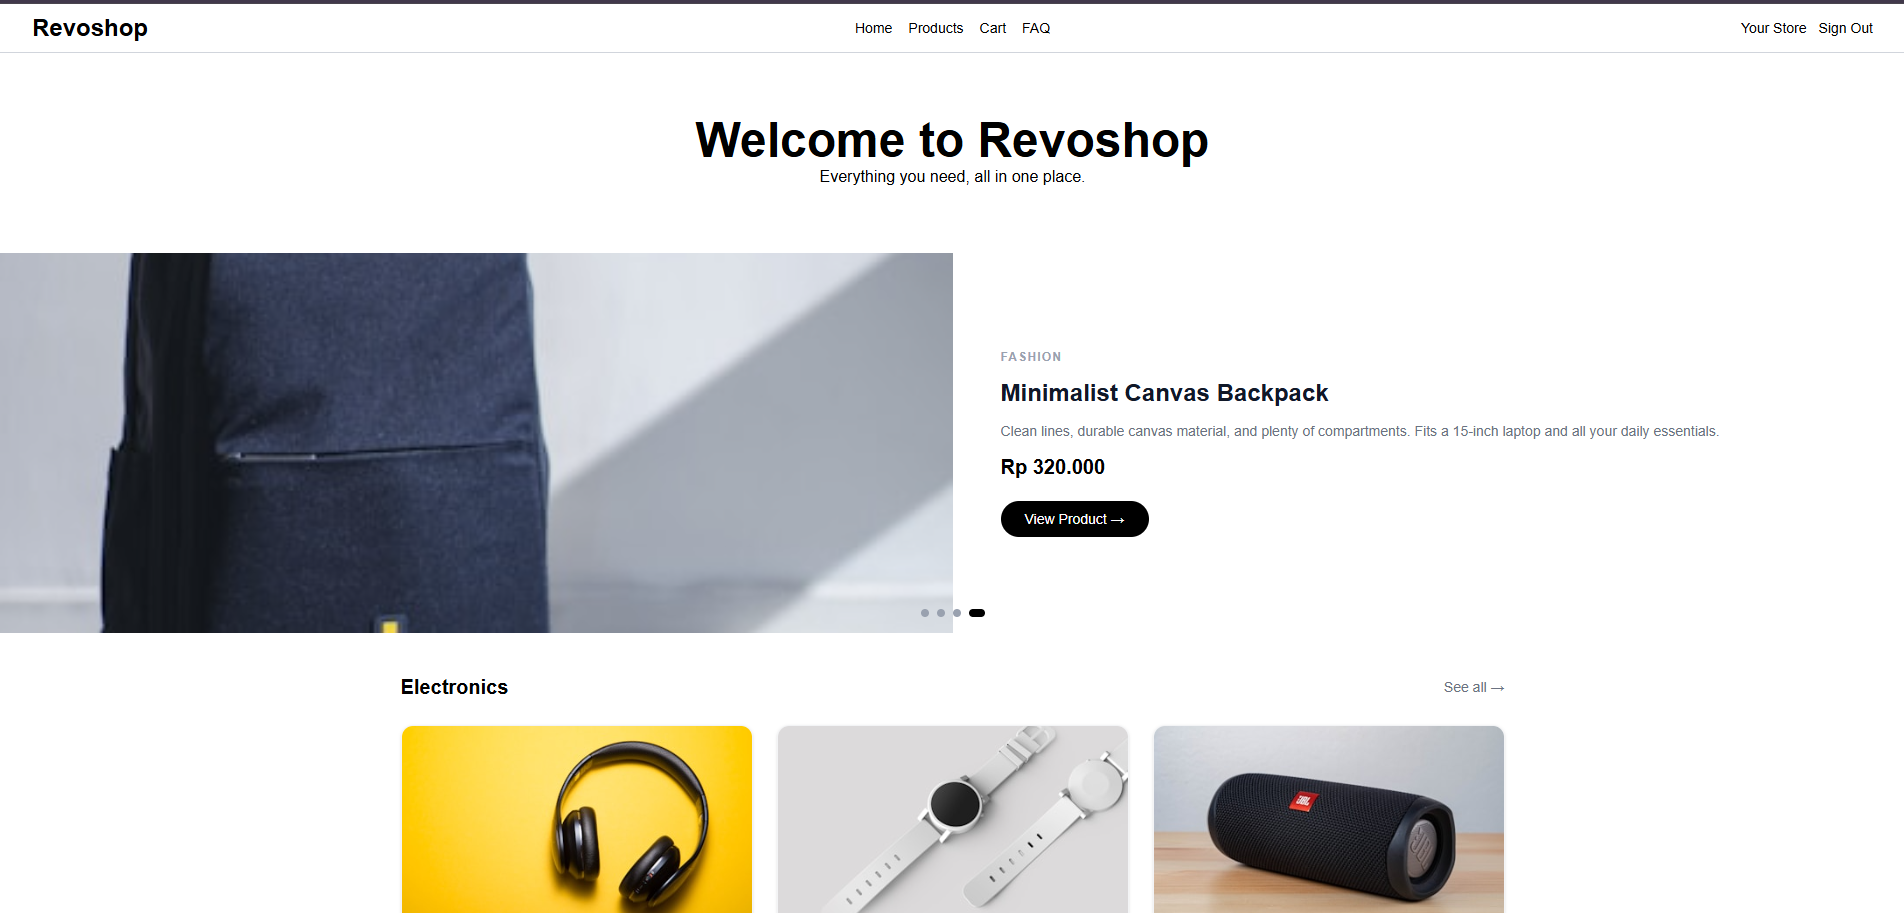
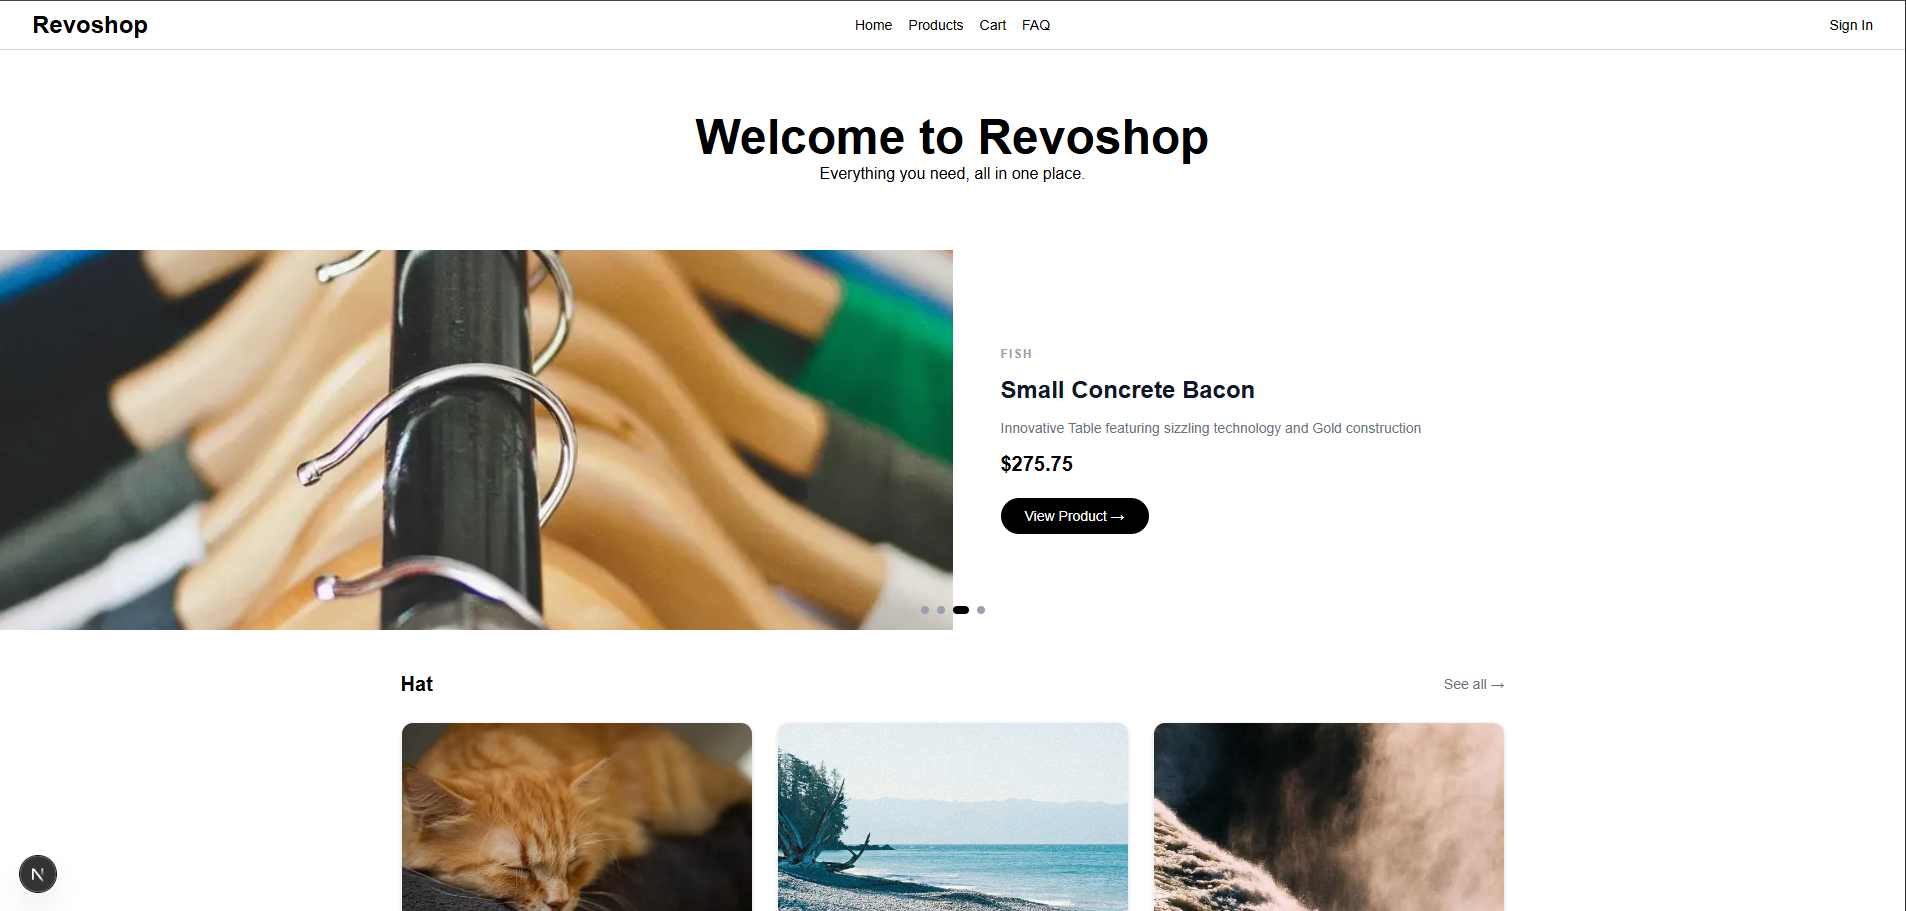
fix: getCartTotal in cart pages, replacing navigation in layout instead of inputting manually, updated README

diff --git a/src/app/products/[id]/page.tsx b/src/app/products/[id]/page.tsx
@@ -2,7 +2,6 @@
 
 import { use, useEffect, useState } from "react";
 import { useRouter } from "next/navigation";
-import { Navigation } from "@/components/Navigation";
 import { Footer } from "@/components/Footer";
 import { fetchProductById, formatPrice, Product } from "@/lib/data";
 import { useCartStore } from "@/store/CartStore";
@@ -53,8 +52,7 @@ export default function ProductDetailPage({ params }: { params: Promise<{id: str
     if (loading) {
         return (
             <>
-                <Navigation />
-                <main className="flex items-center justify-center min-h-screen">
+                <main className="flex items-center justify-center min-h-screen bg-white text-gray-500">
                     <p className="text-gray-400 animate-pulse">Loading...</p>
                 </main>
             </>
@@ -64,9 +62,8 @@ export default function ProductDetailPage({ params }: { params: Promise<{id: str
     if (!product) {
         return (
             <>
-                <Navigation />
-                <main className="flex flex-col items-center justify-center min-h-screen">
-                    <p className="text-gray-500">
+                <main className="flex flex-col items-center justify-center min-h-screen bg-white text-gray-500">
+                    <p className="text-gray-400">
                         {error}
                     </p>
                 </main>
@@ -85,7 +82,6 @@ export default function ProductDetailPage({ params }: { params: Promise<{id: str
 
     return (
         <>
-        <Navigation />
             <main className="bg-white text-black max-w-5xl mx-auto w-full px-6 py-12 min-h-screen min-w-screen">
                 <button
                 onClick={() => router.back()}

diff --git a/src/app/cart/page.tsx b/src/app/cart/page.tsx
@@ -1,8 +1,6 @@
 "use client";
 
 import { useState, useEffect } from "react";
-import { Navigation } from "@/components/Navigation";
-/* import { getCart, removeFromCart, clearCart, cartItem } from "@/lib/cartStore"; */
 import { formatPrice } from "@/lib/data";
 import Link from "next/link";
 import Image from "next/image";
@@ -10,7 +8,7 @@ import { useCartStore } from "@/store/CartStore";
 
 export default function CartPage() {
     const [showThanks, setShowThanks] = useState(false);
-    const { items, removeFromCart, clearCart, updateQuantity } = useCartStore();
+    const { items, removeFromCart, clearCart, getCartTotal, updateQuantity } = useCartStore();
 
     const handleRemove = (id: number) => {
         removeFromCart(id);
@@ -22,11 +20,8 @@ export default function CartPage() {
         setShowThanks(true);
     };
 
-    const total = items.reduce((sum, item) => sum + item.price * item.quantity, 0);
-
     return (
     <>
-        <Navigation />
         <main className="max-w-3xl mx-auto w-full px-6 py-12 min-h-screen bg-white text-black min-w-screen">
             <h1 className="text-2xl font-bold mb-8">Your Cart</h1>
 
@@ -75,7 +70,7 @@ export default function CartPage() {
                 <div className="flex items-center justify-between border-t border-gray-200 pt-6">
                 <div>
                     <p className="text-sm text-gray-400">Total</p>
-                    <p className="text-2xl font-bold">{formatPrice(total)}</p>
+                    <p className="text-2xl font-bold">{formatPrice(getCartTotal())}</p>
                 </div>
                 <button
                     onClick={handleCheckout}

diff --git a/src/app/dashboard/page.tsx b/src/app/dashboard/page.tsx
@@ -3,7 +3,6 @@
 import { useState, useEffect } from "react";
 import Link from "next/link";
 import { Footer } from "@/components/Footer";
-import { Navigation } from "@/components/Navigation";
 import {
     fetchProducts, fetchCategories, formatPrice, Product
 } from "@/lib/data";
@@ -56,7 +55,6 @@ export default function UserDashboard() {
     if(isLoading || isProductLoading) {
         return (
             <>
-                <Navigation />
                 <main className="container text-center py-24 bg-white text-black min-h-screen min-w-screen">
                     <p className="text-sm text-slate-500 animate-pulse">Setting up the environment, please wait a moment...</p>
                 </main>
@@ -68,7 +66,6 @@ export default function UserDashboard() {
     if(error) {
         return (
             <>
-                <Navigation />
                 <main className="container text-center py-24 bg-white text-black min-h-screen min-w-screen">
                     <p className="text-sm text-red-600">{error}</p>
                 </main>
@@ -79,7 +76,6 @@ export default function UserDashboard() {
 
     return (
         <>
-            <Navigation />
             <main className="flex flex-col bg-white text-black min-h-screen">
                 <section className="w-full py-16 px-6 text-center">
                     <h1 className="text-5xl font-bold">Welcome to Revoshop</h1>

diff --git a/src/app/products/page.tsx b/src/app/products/page.tsx
@@ -2,7 +2,6 @@
 
 import { useSearchParams } from "next/navigation";
 import { Suspense, useState, useEffect } from "react";
-import { Navigation } from "@/components/Navigation";
 import { Footer } from "@/components/Footer";
 import { fetchProducts, fetchCategories, formatPrice, Product } from "@/lib/data";
 import Link from "next/link";
@@ -33,7 +32,6 @@ function ProductsContent() {
     if(isProductLoading) {
         return (
             <>
-                <Navigation />
                 <main className="container text-center py-24 bg-white text-black min-h-screen min-w-screen">
                     <p className="text-sm text-slate-500 animate-pulse">Setting up the environment, please wait a moment...</p>
                 </main>
@@ -45,7 +43,6 @@ function ProductsContent() {
     if(error) {
         return (
             <>
-                <Navigation />
                 <main className="container text-center py-24 bg-white text-black min-h-screen min-w-screen">
                     <p className="text-sm text-red-600">{error}</p>
                 </main>
@@ -56,7 +53,6 @@ function ProductsContent() {
 
     return (
         <>
-            <Navigation />
             <main className="bg-white text-black max-w-6xl mx-auto w-full px-6 py-10 flex gap-8 min-h-screen min-w-screen">
                 {/* sidebar filter */}
                 <aside className="w-48 shrink-0">

diff --git a/src/app/dashboard/admin/page.tsx b/src/app/dashboard/admin/page.tsx
@@ -6,7 +6,6 @@ import { useForm } from "react-hook-form";
 import {
     Product, ProductFormInput, fetchProducts, fetchCategories, createProduct, updateProduct, deleteProduct,
 } from "@/lib/data"
-import { Navigation } from "@/components/Navigation";
 import { Footer } from "@/components/Footer";
 import { ProductItem } from "@/components/ProductItem";
 import useSWR, { mutate } from "swr";
@@ -150,7 +149,6 @@ export default function AdminDashboard() {
     if(!isLoggedIn) {
         return (
             <>
-                <Navigation />
                 <main className="container text-center py-24">
                     <p className="text-sm text-slate-500 animate-pulse font-semibold">
                         Checking credentials session...
@@ -163,7 +161,6 @@ export default function AdminDashboard() {
 
     return (
         <>
-            <Navigation />
             <main className="shop-container mx-auto px-6 py-10 bg-white text-black min-h-screen min-w-screen">
                 {/* Header */}
                 <header className="mb-10 border-b border-slate-200 pb-6 flex flex-col items-center justify-between gap-4">

diff --git a/src/app/profile/page.tsx b/src/app/profile/page.tsx
@@ -1,6 +1,5 @@
 "use client";
 
-import { Navigation } from "@/components/Navigation";
 import { Footer } from "@/components/Footer";
 import { AuthUser } from "@/lib/auth";
 import useSWR from "swr";
@@ -23,7 +22,6 @@ export default function Profile() {
     if (isLoading || (!user && !error)) {
         return (
         <>
-            <Navigation />
             <main className="min-h-screen bg-sky-50 flex items-center justify-center font-sans">
                 <div className="text-center p-8 bg-white border border-sky-100 rounded-3xl shadow-sm max-w-sm mx-auto">
                     <span className="text-3xl block mb-3 animate-spin">📦</span>
@@ -39,7 +37,6 @@ export default function Profile() {
 
     return (
         <>
-            <Navigation />
             <main className="bg-white text-black min-h-screen">
                 <section className="flex justify-center gap-8 items-center py-30">
                     <div className="md:col-span-3 bg-white border-2 border-sky-200 border-b-4 border-b-sky-300 rounded-3xl p-8 shadow-sm flex flex-col gap-6 items-center sm:items-start">

diff --git a/src/store/CartStore.ts b/src/store/CartStore.ts
@@ -9,7 +9,7 @@ interface CartStore {
     addToCart: (product: Product) => void;
     removeFromCart: (productId: number) => void;
     clearCart: () => void;
-/*     getCartTotal: () => number; */
+    getCartTotal: () => number;
     updateQuantity: (productId: number, qty:number) => void;
 }
 
@@ -45,9 +45,9 @@ export const useCartStore = create<CartStore>()(
                 set({ items: [] });
             },
 
-            /* getCartTotal:() => {
-                return get().items.reduce((sum, item) => sum + item.quantity, 0);
-            }, */
+            getCartTotal:() => {
+                return get().items.reduce((sum, item) => sum + item.price * item.quantity, 0);
+            },
 
             updateQuantity: (productId, qty) => {
                 if(qty < 1) return;

diff --git a/src/app/layout.js b/src/app/layout.js
@@ -1,5 +1,6 @@
 import { Geist, Geist_Mono } from "next/font/google";
 import "./globals.css";
+import { Navigation } from "@/components/Navigation";
 
 const geistSans = Geist({
   variable: "--font-geist-sans",
@@ -23,9 +24,8 @@ export default function RootLayout({ children }) {
       className={`${geistSans.variable} ${geistMono.variable} h-full antialiased`}
     >
       <body className="min-h-full flex flex-col bg-white text-black">
-        {/* <AuthProvider> */}
-          {children}
-        {/* </AuthProvider> */}
+        <Navigation />
+        {children}
       </body>
     </html>
   );

diff --git a/src/app/faq/page.tsx b/src/app/faq/page.tsx
@@ -1,4 +1,3 @@
-import { Navigation } from "@/components/Navigation";
 import { Footer } from "@/components/Footer";
 
 const faqs = [
@@ -12,7 +11,6 @@ const faqs = [
 export default function FAQPage() {
     return (
         <>
-        <Navigation />
         <main className="bg-white text-black mx-auto w-full px-12 py-12 min-h-screen">
             <h1 className="text-center text-2xl font-bold mb-2">Frequently Asked Questions</h1>
             <p className="text-center text-gray-400 text-sm mb-8">Everything you need to know about Revoshop.</p>

diff --git a/README.md b/README.md
@@ -2,20 +2,36 @@
 Revoshop is a modern e-commerce web platform designed as a one-stop destination for high-quality products across multiple categories. The website allows users to easily browse and shop for a wide variety of items, ranging from electronics and fashion to home living and sports gear. In addition to being a marketplace for buyers, Revoshop also features a merchant ecosystem that empowers sellers to list their products, reach more customers, and grow their businesses online.
 
 # Features Implemented
-1. Product Categorization & Navigation = Products are neatly organized into key categories such as Electronics, Fashion, Home & Living, and Sports, allowing users to browse items based on their specific interests.
+1. Home Page = Products are neatly organized into key categories such as Electronics, Fashion, Home & Living, and Sports, allowing users to browse items based on their specific interests.
 ![home](public/images/Home.png)
+
 2. Product Catalog (/products) = A dedicated page that displays available items for sale, integrated with category filters to help users find exactly what they are looking for.
 ![products](public/images/products.png)
+
 3. Shopping Cart (/cart) = A functional cart system where users can view, manage, and temporarily store their selected items before proceeding to checkout.
 ![cart](public/images/cart.png)
+
 4. User Authentication & Seller Portal (/login & /dashboard) = A secure login system for users that also provides access to the "Your Store" section, enabling thousands of sellers to register, set up their shops, and list products for sale.
 ![login](public/images/login.png)
 ![store](public/images/store.png)
+
 5. FAQ Page (/faq) = A dedicated Frequently Asked Questions page designed to answer common customer inquiries, improve user experience, and build trust.
 ![faq](public/images/faq.png)
 
+6. Profile page (/profile) = A page to show the user their basic information, including their full name, username, email, and their role in this system.
+![faq](public/images/profile.png)
+
+# Roles
+There are 3 roles on this Revoshop that you can use to do some simulation:
+1. Guest = no need to login  
+notes: This user can only access Home Page and Product Catalog. If you want to explore more you should login to the other roles.
+
+2. CEO = emilys (username) / emilyspass (password)
+2. Customer = michaelw (username) / michaelwpass (password)  
+notes: This user can access all of the features implemented, except for Seller Portal.
+
 # Technology Used
-- Frontend    : Next.js (javascript, typescript, tailwind css, html)
-- Backend     : -
+- Frontend    : Next.js (Javascript, Typescript, Tailwind CSS, HTML)
+- Backend     : MOCKAPI, DummyJson
 - Deploy      : Netlify
 - URL         : https://micelhiu-revoshop.netlify.app/
